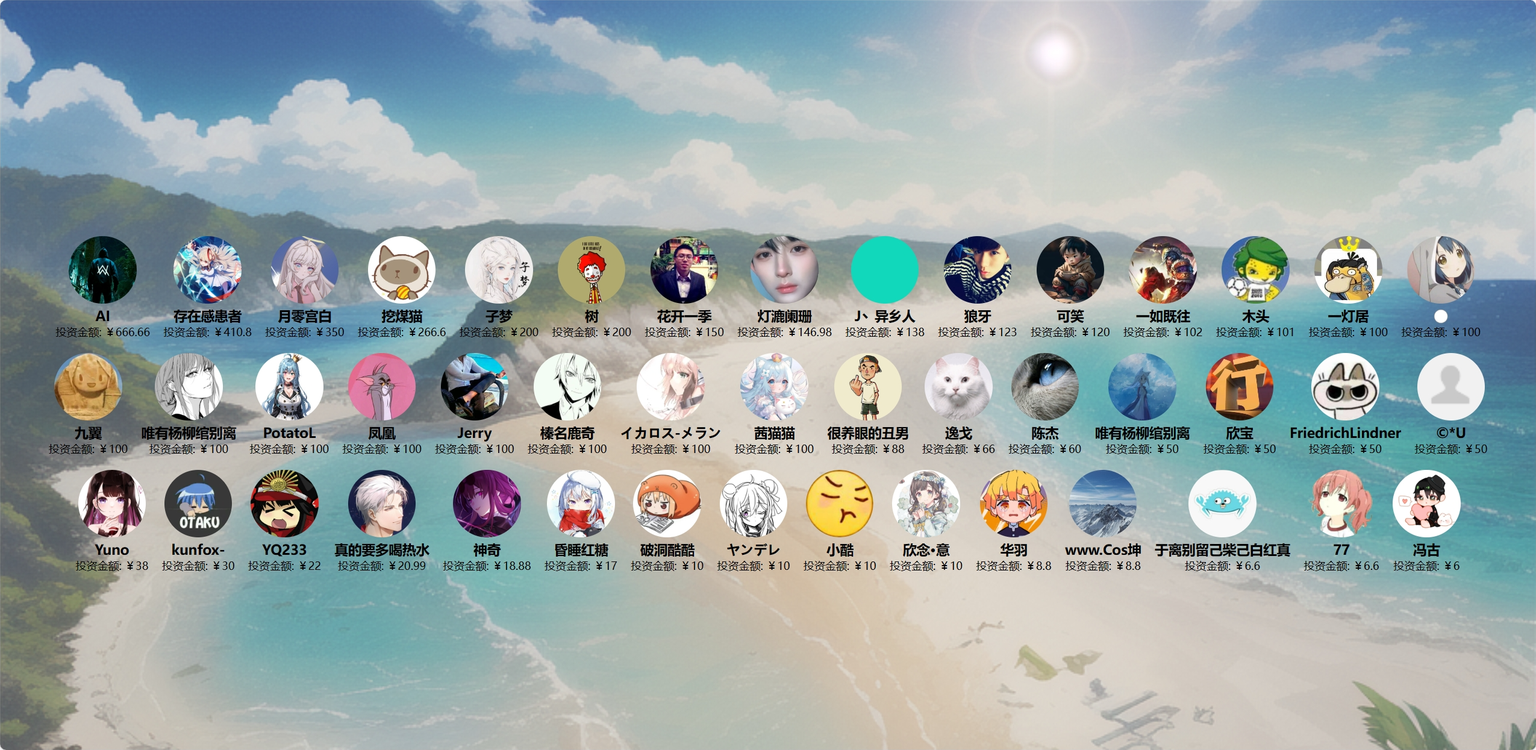
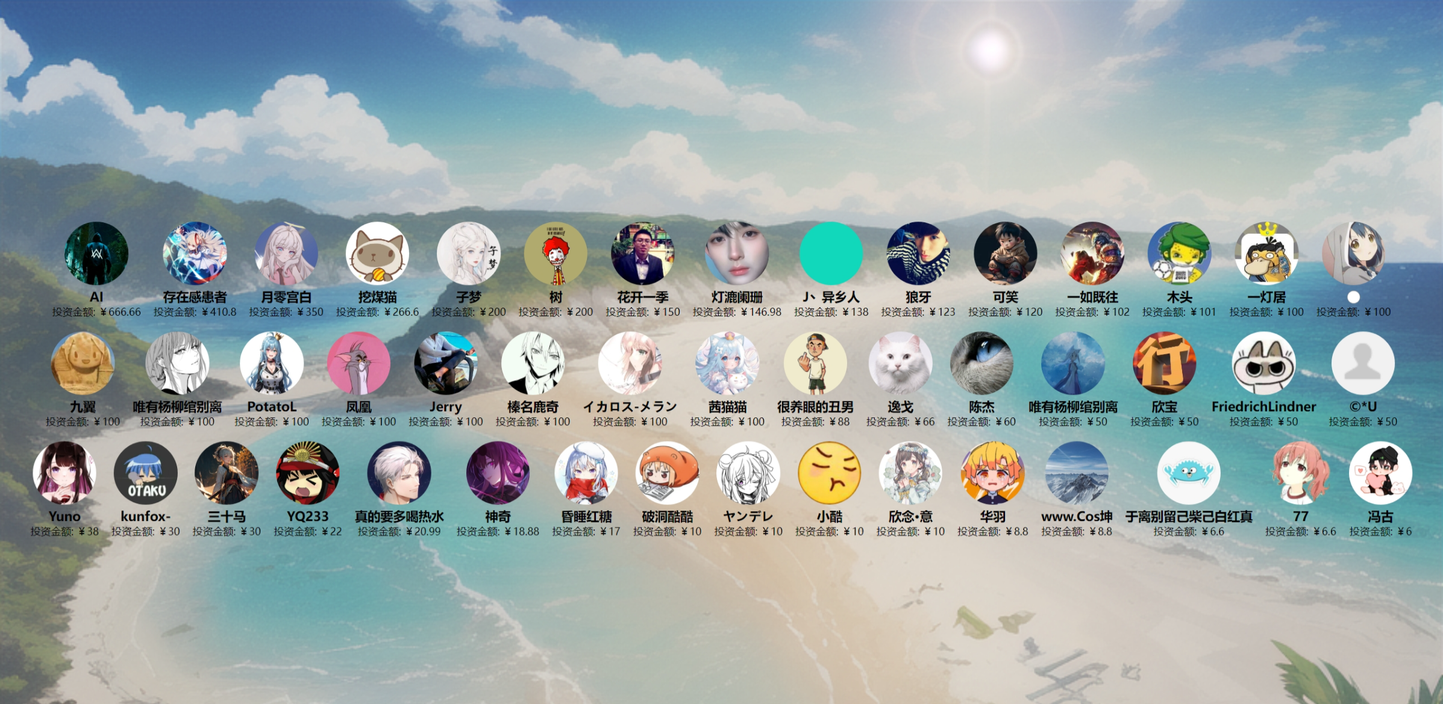
更新投资人信息

diff --git a/docs/投资人/index.html b/docs/投资人/index.html
@@ -212,6 +212,11 @@
             amount: "￥30"
         },
         {
+            name: "三十马",
+            avatar: "https://images.cnblogs.com/cnblogs_com/ikaros-521/2328032/o_231009135152_QQ%E5%9B%BE%E7%89%8720231009215135.png",
+            amount: "￥30"
+        },
+        {
             name: "YQ233",
             avatar: "https://images.cnblogs.com/cnblogs_com/ikaros-521/2328032/o_230719132530_QQ%E5%9B%BE%E7%89%8720230719212443.jpg",
             amount: "￥22"
